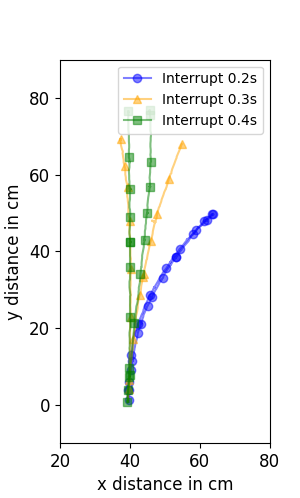
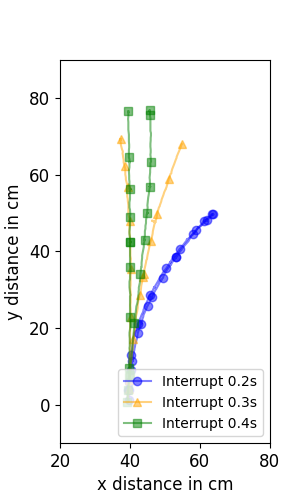
Update text and figures!

Changed region(s): [[0.39, 0.1205, 0.9, 0.2711], [0.54, 0.753, 0.9, 0.8735], [0.39, 0.7229, 0.51, 0.8735]]

diff --git a/Latex/Thesis/chapters/design_and_implementation.tex b/Latex/Thesis/chapters/design_and_implementation.tex
@@ -34,7 +34,7 @@ The solar cells are connected to a Texas Instruments BQ25570 energy harvester~\c
 \subsection{Computation}
 \label{sec:dai_computation}
 
-The robot is designed around a WISP 5 \cite{wisp5_wiki_2017}, a battery-free platform for low power sensing, computation and communication.
+The robot is designed around a WISP5 \cite{wisp5_wiki_2017}, a battery-free platform for low power sensing, computation and communication.
 This platform has the ability to communicate with RFID readers and is powered by the carrier signal emitted by the reader.
 However, the communication range and the power that can be harvested is limited. 
 Only the MCU from the WISP is currently being utilized: a Texas Instruments MSP430FR5969 ultra low power microcontroller.
@@ -46,7 +46,7 @@ This MCU can operate at 16\,MHz and features 64\,KB FRAM, 2\,KB SRAM and 40 IO-p
 \label{sec:dai_sensing}
 
 The robot has access to basic sensors which can be interfaced trough I2C.
-For detecting obstacles in front of the robot, a Maxim Integrated MAX44000 proximity sensor~\cite{max44000_2017} was added of the robot facing forward.
+For detecting obstacles in front of the robot, a Maxim Integrated MAX44000 proximity sensor~\cite{max44000_2017} was added to the robot facing forward.
 The sensor switches an IR led at high frequency to reduce the power consumption.
 Because the sensor is based around a photo-diode it can be used to measure the amount of ambient light as well.
 To allow for local motion feedback, the robot has a Bosch Sensortec BMG250~\cite{bosch_bmg250_2017} low power triaxial gyroscope to measure yaw-rate.
@@ -101,11 +101,11 @@ All the large components are mounted externally: the solar panel, WISP and the m
 
 \subsection{Energy Expenditure}
 
-The average current consumption by each component was measured with a Monsoon Power Monitor~\cite{monsoon_powermonitor_2017}.
+The average current consumption by each component is measured with a Monsoon Power Monitor~\cite{monsoon_powermonitor_2017}.
 The measurement is performed as follows: first a two second current trace was recorded of the current consumed by the MCU on the WISP.
 The MCU was then used to enable each component individually, followed by a two second current measurement with the enabled component.
 The average of each current trace is calculated, and the current consumed by the microcontroller subtracted from the current consumed by each component.
-The measurement result is provided in Table \ref{tab:avg_cur_comp}.
+The measurements results are provided in Table \ref{tab:avg_cur_comp}.
 
 % Make a overview of the cost to build a robot
 
@@ -172,17 +172,16 @@ From this table can be concluded that the cost of building a transiently powered
 
 \section{Motion Control Design}
 \label{sec:dai_control_design}
-In order for the robot to make controlled movements, it needs to have a local feedback method to be able to 
-
-The buck converter supplies a constant voltage to the motors, which eliminates voltage as a factor in determining the motor speed.
-By making the assumption that the robot only travels on a flat surfaces, the steady state speed is considered ``constant" given a target PWM duty cycle.
+In order for the robot to make controlled movements, it needs to have a local heading feedback method to be able to preform controlled movements.
+Since the buck converter supplies a constant voltage to the motors, voltage is eliminated as a factor in determining the motor speed.
+By making the assumption that the robot only travels on a flat surfaces, the steady state speed is considered ``constant".
 
 \subsection{PWM Frequency for Linear Motion Control}
 \label{sec:cd_pwm_frequency}
 
 PWM is used to control the speed of the motors, as briefly addressed in Section \ref{sec:pre_dc_motor_locomotion}.
 The maximum frequency that still allows linear speed control is dependent on the electrical characteristics of the motor.
-When the motor is at rest, its equivalent circuit consists of a resistance and inductance in series.
+When the motor is at rest, its equivalent circuit consists of a resistance (R) and inductance (L) in series.
 If a voltage is applied to the motor, the rate at which the current rises is limited by the inductance. 
 All RL circuits have a time constant: $\tau = L / R$ and the current is considered to have reached its maximum steady state at $5\tau$~\cite{pmw_linear_motion_2017}. 
 The motors used for the robot have a typical resistance of R = 14.5\,$\Omega$ and an inductance of L = 70\,$\mu$H~\cite{gearmotor_206-110_2017}.
@@ -241,7 +240,7 @@ The maximum duty cycle values are all below the calculated free running maximum 
 Open loop movement using calibrated motor values has been used in previous work \cite{legoc_uist_2016}, but it can be time consuming.
 Furthermore, any small disturbance can throw the robot off course.
 Controlled movements can be achieved by using closed loop feedback, where the heading is used to update the motor control values.
-The robots relative change in heading can be obtained from the gyroscope and corresponds to the yaw-rate.
+The robots relative change in heading, i.e. horizontal angular velocity, can be obtained from the gyroscope and corresponds to the yaw-rate.
 
 \subsubsection{PID Controller}
 
@@ -313,17 +312,17 @@ Figure \ref{fig:gain_tuning} shows how the oscillations are removed by setting t
 The tuning process was speeded up by setting the minimum motor duty cycle as it made the robot a lot more responsive, as described in Section \ref{sec:cd_pwm_frequency}.
 
 \begin{figure}
-	\begin{subfigure}[b]{0.49\textwidth}
+	\begin{subfigure}[b]{0.5\textwidth}
 		\includegraphics[width=\textwidth]{pics/straight_ku.png}
 		\caption{Determining the ultimate gain}
 		\label{fig:ultimate_gain}
 	\end{subfigure}
-	\begin{subfigure}[b]{0.49\textwidth}
+	\begin{subfigure}[b]{0.5\textwidth}
 		\includegraphics[width=\textwidth]{pics/straight_ku_with_tu.png}
-		\caption{Determining the ultimate period}
+		\caption{Result of applying the gains}
 		\label{fig:gain_tuning}
 	\end{subfigure}
-	\caption{Tuning the PID controller using the ultimate gain method, first the ultimate gain is determined to be equal to 0.13. Then the ultimate period is determined equal to 0.2 and using Table \ref{tab:gain_chart} the tunable gains are determined.}
+	\caption{Tuning the PID controller using the closed loop Ziegler-Nichols method, first the ultimate gain is determined to be equal to 0.13. Then the ultimate period is determined equal to 0.2 and using Table \ref{tab:gain_chart} the tunable gains are determined.}
 \end{figure}
 
 %\subsubsection{Controlled turns}

diff --git a/Code/Python/Video experiments/plot_movement.py b/Code/Python/Video experiments/plot_movement.py
@@ -59,7 +59,7 @@ def plot_raw_data(data_list):
 
     if movement == 1:
         plt.figure(figsize=(5, 5))
-    elif movement == 3:
+    elif movement == 4:
         plt.figure(figsize=(3, 5))
         plt.subplots_adjust(left=0.2)
     for dlist in data_list:
@@ -81,7 +81,9 @@ def plot_raw_data(data_list):
     plt.ylabel('y distance in cm', fontsize=12)
     plt.xticks(fontsize=12)
     plt.yticks(fontsize=12)
-    plt.axes().set_aspect('equal', 'datalim')
+    if movement == 4:
+        plt.xlim(xmin=20, xmax=80)  # adjust the max leaving min unchanged
+    #plt.axes().set_aspect('equal', 'datalim')
     # remove duplicate labels
     handles, labels = plt.gca().get_legend_handles_labels()
     by_label = OrderedDict(zip(labels, handles))

diff --git a/Latex/Thesis/chapters/preliminaries.tex b/Latex/Thesis/chapters/preliminaries.tex
@@ -1,7 +1,7 @@
 \chapter{Preliminaries}
 \label{chp:preliminaries}
 
-The design considerations for the robot is explained based on minimal required capabilities in Section \ref{sec:pre_design_requirements}.
+The design requirements for the robot is explained based on minimal required capabilities in Section \ref{sec:pre_design_requirements}.
 Section \ref{sec:pre_energy_source_selection} evaluates two sources for energy harvesting and in Section \ref{sec:pre_locomotion_selection} two types of locomotion for the transiently powered robot are evaluated.
 %Finally in Section \ref{sec:pre_transient_model}, a simple model will capture the relation between power harvested and distance covered by the robot.
 

diff --git a/Latex/Thesis/chapters/summary.tex b/Latex/Thesis/chapters/summary.tex
@@ -51,7 +51,7 @@ The applicability of existing swarm algorithms is currently unknown and new meth
 
 \item \textbf{Size reduction}: 
 In order to further reduce the weight of a robot, an alternative to DC motors has to be found.
-Since significant smaller and efficient DC-motors are not available.
+Since significant smaller and efficient DC motors are not available.
 %Alternative legged locomotion types have been discussed in Section \ref{sec:rw_locomotion}.
 Miniature legged robots that make use of piezoelectric actuators seem promising, but most of them are still in an early stage of development.
 
